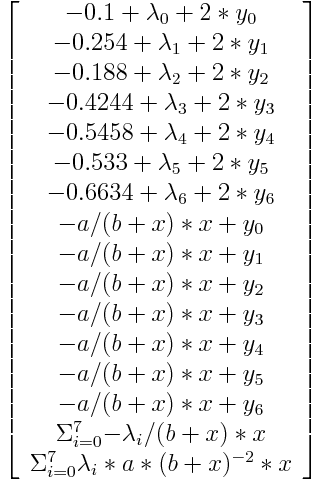
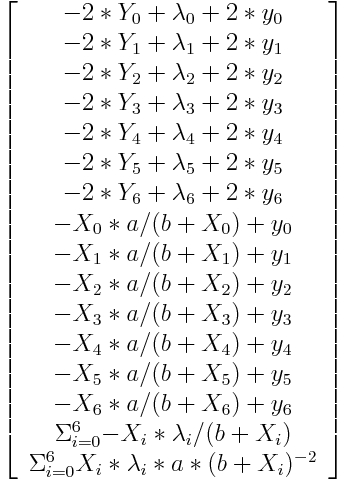
better display for example3

diff --git a/src/symjava/examples/LagrangeMultipliers.java b/src/symjava/examples/LagrangeMultipliers.java
@@ -25,37 +25,38 @@ public class LagrangeMultipliers {
 	}
 	
 	public Eq getEqForDisplay() {
-		Symbol i = new Symbol("i");
-		Symbols ys = new Symbols("y", i);
-		Symbols lambdas = new Symbols("\\lambda", i);
+		Symbol idx = new Symbol("i");
+		Symbols lambdas = new Symbols("\\lambda", idx);
 		List<Expr> addList = new ArrayList<Expr>();
 		Expr[] freeVars = eq.getFreeVars();
 		Expr[] depVars = eq.getDependentVars();
 		
-		int depVarIdxStart = freeVars.length;
 		Expr[] freeVarForL = new Expr[data.length*depVars.length + data.length + eq.getParams().length];
 		int lmdIdxStart = data.length*depVars.length;
-		for(int k=0; k<data.length; k++) {
-			//Expr state_eq = eq.lhs;
+		for(int i=0; i<data.length; i++) {
 			for(int j=0; j<depVars.length; j++) {
-				int yIdx = (j*data.length)+k;
-				Expr yi = ys.get(yIdx);
-				freeVarForL[yIdx] = yi;
-				//addList.add(new Power(-ys.get(yIdx) + data[i][depVarIdxStart+j], 2)/2);
-				addList.add(Power.simplifiedIns(-ys.get(yIdx) + data[k][depVarIdxStart+j], 2));
-				//state_eq = state_eq.subs(depVars[j], ys.get(yIdx));
+				int yIdx = (j*data.length)+i;
+				Symbols ys = new Symbols(depVars[j].toString(), idx);
+				freeVarForL[yIdx] = ys.get(yIdx);
 			}
-			Expr lmdi = lambdas.get(k);
-			freeVarForL[lmdIdxStart + k] = lmdi;
-			//for(int j=0; j<freeVars.length; j++)
-			//	state_eq = state_eq.subs(freeVars[j], data[i][j]);
-			//addList.add(lmdi*state_eq);
+			freeVarForL[lmdIdxStart + i] = lambdas.get(i);
 		}
-		Expr state_eq = eq.lhs;
+		
+		List<Expr> targets = new ArrayList<Expr>();
 		for(int j=0; j<depVars.length; j++) {
-			state_eq = state_eq.subs(depVars[j], ys); //??
+			Expr depDataSymbols = new Symbols(depVars[j].toString().toUpperCase(), idx);
+			Expr depSymbols = new Symbols(depVars[j].toString(), idx);
+			targets.add(new Sum(Power.simplifiedIns(depDataSymbols - depSymbols, 2), idx, 0, data.length-1));
 		}
-		Sum sum = new Sum(lambdas*state_eq, i, 0, data.length);
+		addList.addAll(targets);
+		Expr state_eq = eq.lhs;
+		for(int j=0; j<freeVars.length; j++) {
+			state_eq = state_eq.subs(freeVars[j], new Symbols(freeVars[j].toString().toUpperCase(), idx));
+		}
+		for(int j=0; j<depVars.length; j++) {
+			state_eq = state_eq.subs(depVars[j], new Symbols(depVars[j].toString(), idx));
+		}
+		Sum sum = new Sum(lambdas*state_eq, idx, 0, data.length-1);
 		addList.add(sum);
 		for(int k=0; k<eq.getParams().length; k++)
 			freeVarForL[data.length*depVars.length + data.length + k] = eq.getParams()[k];
@@ -65,7 +66,7 @@ public class LagrangeMultipliers {
 	}
 	
 	public Eq getEq() {
-		Symbols ys = new Symbols("y");
+		Symbol idx = new Symbol("i");
 		Symbols lambdas = new Symbols("\\lambda");
 		List<Expr> addList = new ArrayList<Expr>();
 		Expr[] freeVars = eq.getFreeVars();
@@ -78,6 +79,7 @@ public class LagrangeMultipliers {
 			Expr state_eq = eq.lhs;
 			for(int j=0; j<depVars.length; j++) {
 				int yIdx = (j*data.length)+i;
+				Symbols ys = new Symbols(depVars[j].toString(), idx);
 				Expr yi = ys.get(yIdx);
 				freeVarForL[yIdx] = yi;
 				//addList.add(new Power(-ys.get(yIdx) + data[i][depVarIdxStart+j], 2)/2);

diff --git a/src/symjava/examples/Example3.java b/src/symjava/examples/Example3.java
@@ -49,10 +49,16 @@ public class Example3 {
 		double[] initialGuess = {0.9, 0.2};
 		
 		LagrangeMultipliers lm = new LagrangeMultipliers(eq, initialGuess, data);
-		//Eq L = lm.getEqForDisplay(); //This is not correct, just for purpose of displaying summation expression
-		Eq L = lm.getEq();
+		//Just for purpose of displaying summation expression
+		Eq L = lm.getEqForDisplay(); 
 		System.out.println("L("+SymPrinting.join(L.getUnknowns(),",")+")=\n    "+L.lhs);
-		NewtonOptimization.solve(L, lm.getInitialGuess(), 100, 1e-4);
+		System.out.println("where data array is (X_i, Y_i), i=0..."+(data.length-1));
+		
+		NewtonOptimization.solve(L, lm.getInitialGuess(), 100, 1e-4, true);
+		
+		Eq L2 = lm.getEq();
+		System.out.println("L("+SymPrinting.join(L.getUnknowns(),",")+")=\n    "+L2.lhs);
+		NewtonOptimization.solve(L2, lm.getInitialGuess(), 100, 1e-4, false);
 	}
 	
 	public static void main(String[] args) {

diff --git a/src/symjava/examples/NewtonOptimization.java b/src/symjava/examples/NewtonOptimization.java
@@ -10,7 +10,7 @@ import symjava.symbolic.Symbol;
 import Jama.Matrix;
 
 public class NewtonOptimization {
-	public static void solve(Eq eq, double[] init, int maxIter, double eps) {
+	public static void solve(Eq eq, double[] init, int maxIter, double eps, boolean dislpayOnly) {
 		if(!Symbol.C0.symEquals(eq.rhs)) {
 			System.out.println("The right hand side of the equation must be 0.");
 			return;
@@ -30,11 +30,12 @@ public class NewtonOptimization {
 			}
 		}
 
-		
 		System.out.println("Hessian Matrix = ");
 		System.out.println(hess);
 		System.out.println("Grident = ");
 		System.out.println(grad);
+		
+		if(dislpayOnly) return;
 		
 		//Convert symbolic staff to Bytecode staff to speedup evaluation
 		NumMatrix NH = new NumMatrix(hess, unknowns);

diff --git a/src/symjava/symbolic/utils/BytecodeUtils.java b/src/symjava/symbolic/utils/BytecodeUtils.java
@@ -59,7 +59,7 @@ public class BytecodeUtils {
 			post_order(ue.base, outList);
 		} else if(e instanceof Sum) {
 			Sum se = (Sum)e;
-			for(int i=se.start; i<se.end; i++)
+			for(int i=se.start; i<=se.end; i++)
 				post_order(se.getSummand(i), outList);
 		} else if(e instanceof Dot) {
 			Dot de = (Dot)e;

diff --git a/README.md b/README.md
@@ -283,7 +283,9 @@ public class Example3 {
 
 ```
 Jacobian Matrix = 
-2*x	
+\left[ {\begin{array}{c}
+2*x\\
+\end{array} } \right]
 Iterativly sovle ... 
 x=10.00000 
 x=35.60000 
